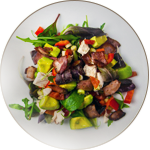
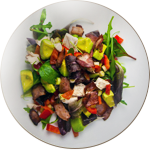
shortened code and added shadows to images

diff --git a/JavaScript/menu.js b/JavaScript/menu.js
@@ -1,67 +1,23 @@
-window.addEventListener('load',pageReady,false);
-
+window.onload = pageReady;
 function pageReady() {
-var headings = document.getElementsByClassName("section-title");
-console.log(headings);
-var contents = document.getElementsByClassName("content");
-console.log(contents);
-
-headings[0].onclick = toggle0;
-function toggle0() {
-	if (contents[0].style.position == "absolute") {
-		contents[0].style.position = "relative";
-		contents[0].style.top = "0px";
-	}else{
-		contents[0].style.position = "absolute";
-		contents[0].style.top = "-10000px";
-	}
-}
-
-headings[1].onclick = toggle1;
-function toggle1() {
-	if (contents[1].style.position == "relative") {
-		contents[1].style.position = "absolute";
-		contents[1].style.top = "-10000px";
-	}else{
-		contents[1].style.position = "relative";
-		contents[1].style.top = "0px";
-	}
 	
-}
-headings[2].onclick = toggle2;
-function toggle2() {
-	if (contents[2].style.position == "relative") {
-		contents[2].style.position = "absolute";
-		contents[2].style.top = "-10000px";
-	}else{
-		contents[2].style.position = "relative";
-		contents[2].style.top = "0px";
+	var contents = document.querySelectorAll(".section-title");
+	
+	contents[0].addEventListener('click', toggle);
+	contents[1].addEventListener('click', toggle);
+	contents[2].addEventListener('click', toggle);
+	contents[3].addEventListener('click', toggle);
+	contents[4].addEventListener('click', toggle);
+	
+	function toggle(event) {
+		var elem = event.target.nextElementSibling; //target the next element of the header
+		
+		if (elem.style.position == "relative") {
+			elem.style.position = "absolute";
+			elem.style.top = "-10000px";
+		} else {
+			elem.style.position = "relative";
+			elem.style.top = "0px";
+		}
 	}
-}	
-
-headings[3].onclick = toggle3;
-function toggle3() {
-	if (contents[3].style.position == "relative") {
-		contents[3].style.position = "absolute";
-		contents[3].style.top = "-10000px";
-	}else{
-		contents[3].style.position = "relative";
-		contents[3].style.top = "0px";
-	}
-}
-
-headings[4].onclick = toggle4;
-function toggle4() {
-	if (contents[4].style.position == "relative") {
-		contents[4].style.position = "absolute";
-		contents[4].style.top = "-10000px";
-	}else{
-		contents[4].style.position = "relative";
-		contents[4].style.top = "0px";
-	}
-}
-
-
-
-
-}//end of pageReady function
+}//end of pageReady

diff --git a/CSS/menu.css b/CSS/menu.css
@@ -11,6 +11,8 @@ main section img {
 	max-width:30%;
 	height:auto;
 	padding-right:5%;
+	-webkit-filter: drop-shadow(5px 5px 5px grey);
+	filter: drop-shadow(5px 5px 5px grey);
 }
 main section ul {
 	clear:both;
@@ -74,10 +76,6 @@ main section h3 {
 	position:absolute;
 	top:-10000px;
 	transition: all 0.2s;
-}
-#first-section {
-	position:relative;
-	top:0;
 }
 @media all and (max-width:768px) {
 	.column-2 {

diff --git a/menu.html b/menu.html
@@ -27,7 +27,7 @@
       <h1 class="hidden">Menu</h1>
 	    <section>
       	  <h2 class="section-title">Appetizers</h2>
-		  <div class="content" id="first-section">
+		  <div class="content">
 			<img  src="images/appetizer.png" alt="soup small" />
 	        <ul>
 		      <li>
